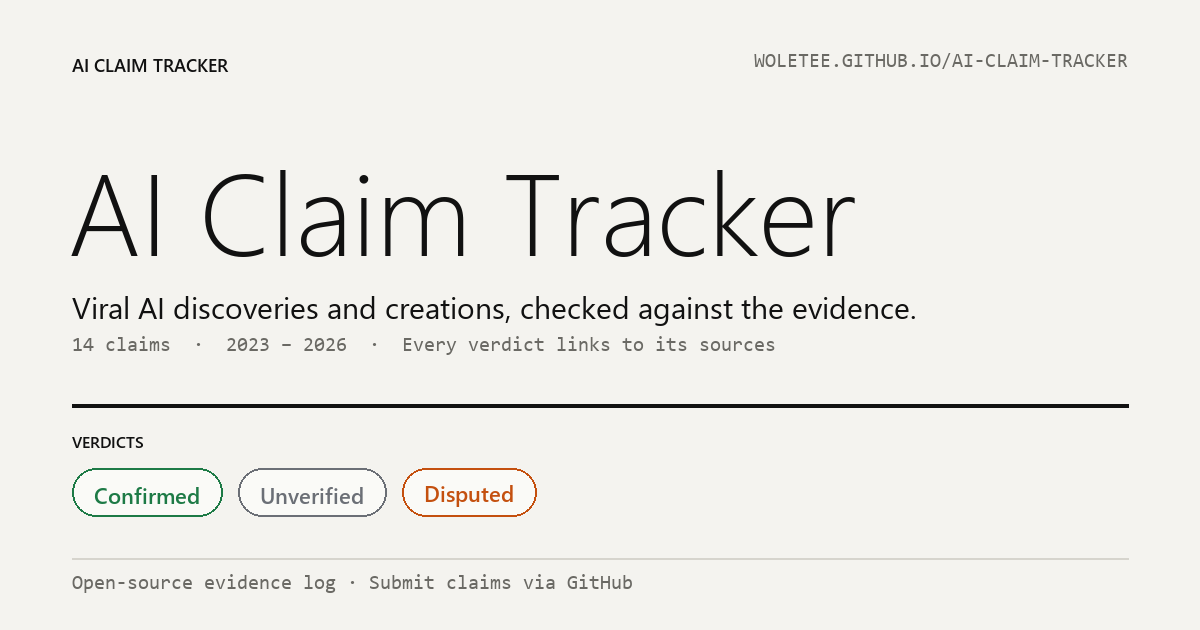
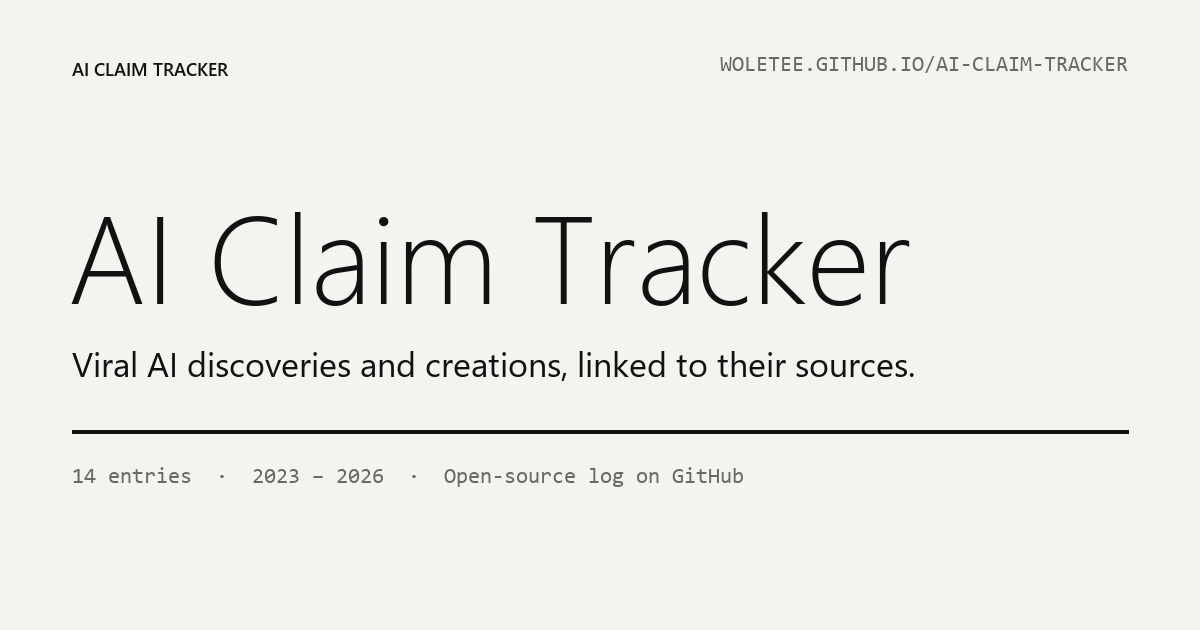
Remove Verdict bar and Confirmed/Unverified/Disputed labels from site

diff --git a/index.html b/index.html
@@ -4,31 +4,30 @@
 <meta charset="utf-8">
 <meta name="viewport" content="width=device-width, initial-scale=1, viewport-fit=cover">
 <title>AI Claim Tracker</title>
-<meta name="description" content="Viral AI discoveries and creations, checked against the evidence. Every verdict links to its sources.">
+<meta name="description" content="Viral AI discoveries and creations, linked to their sources.">
 <link rel="canonical" href="https://woletee.github.io/ai-claim-tracker/">
 <link rel="icon" href="favicon.svg" type="image/svg+xml">
 <link rel="icon" href="favicon.ico" sizes="32x32">
 <meta property="og:type" content="website">
 <meta property="og:site_name" content="AI Claim Tracker">
 <meta property="og:title" content="AI Claim Tracker">
-<meta property="og:description" content="Viral AI discoveries and creations, checked against the evidence. Every verdict links to its sources.">
+<meta property="og:description" content="Viral AI discoveries and creations, linked to their sources.">
 <meta property="og:url" content="https://woletee.github.io/ai-claim-tracker/">
 <meta property="og:image" content="https://woletee.github.io/ai-claim-tracker/og-image.png">
 <meta property="og:image:width" content="1200">
 <meta property="og:image:height" content="630">
-<meta property="og:image:alt" content="AI Claim Tracker — Viral AI discoveries and creations, checked against the evidence.">
+<meta property="og:image:alt" content="AI Claim Tracker — Viral AI discoveries and creations, linked to their sources.">
 <meta name="twitter:card" content="summary_large_image">
 <meta name="twitter:title" content="AI Claim Tracker">
-<meta name="twitter:description" content="Viral AI discoveries and creations, checked against the evidence. Every verdict links to its sources.">
+<meta name="twitter:description" content="Viral AI discoveries and creations, linked to their sources.">
 <meta name="twitter:image" content="https://woletee.github.io/ai-claim-tracker/og-image.png">
 <link rel="preconnect" href="https://fonts.googleapis.com">
 <link rel="stylesheet" href="https://fonts.googleapis.com/css2?family=Raleway:wght@200;300;400;500;600;700&family=JetBrains+Mono:wght@400;500&display=swap">
 <style>
-/* Layout: same system as Fast, With AI. Thin masthead, pill filter row, ruled 3-column grid; each cell is one claim: image, verdict, claim. */
+/* Layout: same system as Fast, With AI. Thin masthead and ruled 3-column grid; each cell is one AI discovery or creation. */
 :root{
   --bg:#f4f3ef; --paper:#fafaf7; --fg:#111; --muted:#6a6964; --rule:#d6d4cd; --line:#111;
   --pill:#111; --pill-fg:#f4f3ef;
-  --ok:#1d7a46; --unv:#6b6f76; --disp:#c4500f;
   --display:"Raleway","Century Gothic","Avenir Next",sans-serif;
   --body:"Raleway","Avenir Next",system-ui,-apple-system,"Segoe UI",sans-serif;
   --mono:"JetBrains Mono",ui-monospace,Consolas,monospace;
@@ -36,12 +35,10 @@
 }
 @media (prefers-color-scheme: dark){:root:not([data-theme="light"]){
   --bg:#111; --paper:#161616; --fg:#f0efea; --muted:#9a9993; --rule:#2c2b29; --line:#f0efea;
-  --pill:#f0efea; --pill-fg:#111;
-  --ok:#5cc98a; --unv:#a4a9b1; --disp:#f08a4b; color-scheme:dark}}
+  --pill:#f0efea; --pill-fg:#111; color-scheme:dark}}
 :root[data-theme="dark"]{
   --bg:#111; --paper:#161616; --fg:#f0efea; --muted:#9a9993; --rule:#2c2b29; --line:#f0efea;
-  --pill:#f0efea; --pill-fg:#111;
-  --ok:#5cc98a; --unv:#a4a9b1; --disp:#f08a4b; color-scheme:dark}
+  --pill:#f0efea; --pill-fg:#111; color-scheme:dark}
 
 *{box-sizing:border-box}
 html{padding-top:env(safe-area-inset-top,0px);padding-bottom:env(safe-area-inset-bottom,0px)}
@@ -63,15 +60,9 @@ h1{font-family:var(--display);font-weight:200;letter-spacing:-.04em;font-size:mi
 .dek .stats{font-family:var(--mono);font-size:12px;color:var(--muted)}
 .suggest{font-size:12px;font-weight:600;letter-spacing:.06em;text-transform:uppercase;text-decoration:none;border:1px solid var(--line);border-radius:999px;padding:6px 14px}
 .suggest:hover{background:var(--pill);color:var(--pill-fg)}
+.card summary:focus-visible,.suggest:focus-visible,.more a:focus-visible{outline:2px solid var(--fg);outline-offset:2px}
 
-.bar{display:flex;justify-content:space-between;align-items:center;gap:10px 24px;flex-wrap:wrap;padding-block:10px;border-top:2px solid var(--line)}
-.bar .label{font-size:11px;letter-spacing:.14em;text-transform:uppercase;font-weight:700}
-.pills{display:flex;flex-wrap:wrap;gap:6px}
-.pills button{font:600 12px var(--body);color:var(--fg);background:transparent;border:1px solid var(--line);border-radius:999px;padding:4px 12px;cursor:pointer}
-.pills button[aria-pressed="true"]{background:var(--pill);color:var(--pill-fg)}
-.pills button:focus-visible,.card summary:focus-visible,.suggest:focus-visible,.more a:focus-visible{outline:2px solid var(--fg);outline-offset:2px}
-
-.grid{display:grid;grid-template-columns:repeat(3,minmax(0,1fr));align-items:start;border-top:1px solid var(--line);border-left:1px solid var(--rule)}
+.grid{display:grid;grid-template-columns:repeat(3,minmax(0,1fr));align-items:start;border-top:2px solid var(--line);border-left:1px solid var(--rule)}
 .card{border-right:1px solid var(--rule);border-bottom:1px solid var(--rule);padding:16px;display:flex;flex-direction:column;gap:12px;min-width:0;background:var(--paper)}
 .card.targeted{outline:2px solid var(--line);outline-offset:-2px}
 .card .row{display:flex;justify-content:space-between;align-items:center;gap:8px;font-size:12px}
@@ -80,9 +71,8 @@ h1{font-family:var(--display);font-weight:200;letter-spacing:-.04em;font-size:mi
 .art{aspect-ratio:1200/630;width:100%;overflow:hidden;background:var(--rule)}
 .art img{width:100%;height:100%;display:block;object-fit:cover}
 .art img.contain{object-fit:contain;background:#fff}
-.verdict-word{display:block;font-family:var(--display);font-weight:300;font-size:36px;letter-spacing:-.03em;line-height:1;color:var(--c)}
-.card h2{font-size:17px;line-height:1.3;margin:0;font-weight:600;text-wrap:balance}
-.card .short{margin:0;font-size:13px;color:var(--muted);margin-top:-6px}
+.card h2{font-size:18px;line-height:1.3;margin:0;font-weight:600;text-wrap:balance}
+.card .short{margin:0;font-size:13.5px;color:var(--muted);margin-top:-4px}
 .card details{border-top:1px solid var(--rule);padding-top:10px}
 .card summary{cursor:pointer;list-style:none;font-size:11px;font-weight:700;letter-spacing:.12em;text-transform:uppercase;display:flex;justify-content:space-between;gap:8px}
 .card summary::-webkit-details-marker{display:none}
@@ -109,48 +99,35 @@ h1{font-family:var(--display);font-weight:200;letter-spacing:-.04em;font-size:mi
 
   <h1>AI Claim Tracker</h1>
   <div class="dek">
-    <p>Viral AI discoveries and creations, checked against the evidence.</p>
-    <div class="dek-right"><div class="stats" id="stats"></div><a class="suggest" href="https://github.com/woletee/ai-claim-tracker/issues/new?template=new-claim.yml" target="_blank" rel="noopener">+ Submit a claim</a></div>
+    <p>Viral AI discoveries and creations, linked to their sources.</p>
+    <div class="dek-right"><div class="stats" id="stats"></div><a class="suggest" href="https://github.com/woletee/ai-claim-tracker/issues/new?template=new-claim.yml" target="_blank" rel="noopener">+ Submit an entry</a></div>
   </div>
 
-  <div class="bar">
-    <span class="label">Verdict</span>
-    <div class="pills" id="pills" role="group" aria-label="Filter by verdict"></div>
-  </div>
   <div class="grid" id="grid"></div>
 
   <footer class="fine">
-    <span>Every verdict links to its sources. Checked 27 Nov 2026.</span>
+    <span>Every entry links to its sources. Updated 28 Nov 2026.</span>
     <span>Images: each source's own, credited per card.</span>
   </footer>
 </div>
 
 <script>
-const STATUS={
-  "confirmed":{label:"Confirmed",c:"--ok",def:"Independent evidence supports it."},
-  "unverified":{label:"Unverified",c:"--unv",def:"Only the creator's own numbers so far."},
-  "disputed":{label:"Disputed",c:"--disp",def:"Credible experts challenge it."}
-};
-const ORDER=Object.keys(STATUS);
 const MON=["Jan","Feb","Mar","Apr","May","Jun","Jul","Aug","Sep","Oct","Nov","Dec"];
 const fmt=d=>{const [y,m]=d.split("-");return `${MON[+m-1]} ${y}`;};
 const esc=s=>String(s??"").replace(/[&<>"]/g,c=>({"&":"&amp;","<":"&lt;",">":"&gt;",'"':"&quot;"}[c]));
-let C=[], current="all";
-const grid=document.getElementById("grid"), pills=document.getElementById("pills");
+let C=[];
+const grid=document.getElementById("grid");
 
 function card(x){
-  const st=STATUS[x.status]||STATUS.unverified;
   const img=x.image?`<img src="${esc(x.image)}" alt="Image for: ${esc(x.claim)}" class="${x.imageFit==="contain"?"contain":""}" loading="lazy" onerror="this.remove()">`:"";
-  return `<article class="card" id="${esc(x.id)}" style="--c:var(${st.c})">
+  return `<article class="card" id="${esc(x.id)}">
     <div class="row"><span class="date">${fmt(x.date)}</span><span class="tag">${esc(x.who)}</span></div>
     <div class="art">${img}</div>
-    <span class="verdict-word">${st.label}</span>
     <h2>“${esc(x.claim)}”</h2>
     <p class="short">${esc(x.verdict)}</p>
     <details><summary aria-expanded="false"><span class="t-open">Read more</span><span class="t-close">Read less</span></summary>
       <div class="more">
-        <span class="k">Verdict</span><span>${st.label}: ${st.def}</span>
-        <span class="k">Found</span><span>${esc(x.detail)}</span>
+        <span class="k">Details</span><span>${esc(x.detail)}</span>
         <span class="k">Source</span><span>${(x.sources||[]).map(s=>`<a href="${esc(s.url)}" target="_blank" rel="noopener">${esc(s.label)}</a>`).join(" · ")}</span>
         ${x.image?`<span class="k">Image</span><span><a href="${esc(x.imagePage)}" target="_blank" rel="noopener">${esc(x.imageCredit)}</a></span>`:""}
         <span class="k">Link</span><span><a class="permalink" href="#${esc(x.id)}" data-id="${esc(x.id)}">Copy link</a></span>
@@ -159,10 +136,9 @@ function card(x){
 }
 function syncUrl(hashId){
   const u=new URL(location.href);
-  if(current==="all") u.searchParams.delete("verdict");
-  else u.searchParams.set("verdict",current);
+  u.search="";
   u.hash=hashId?`#${hashId}`:"";
-  history.replaceState(null,"",u.pathname+u.search+u.hash);
+  history.replaceState(null,"",u.pathname+u.hash);
 }
 function wireCards(){
   grid.querySelectorAll(".card").forEach(el=>{
@@ -195,47 +171,30 @@ function wireCards(){
   });
 }
 function render(){
-  grid.innerHTML=C.filter(x=>current==="all"||x.status===current).sort((a,b)=>b.date.localeCompare(a.date)).map(card).join("");
-  pills.querySelectorAll("button").forEach(b=>b.setAttribute("aria-pressed",b.dataset.s===current?"true":"false"));
+  grid.innerHTML=C.slice().sort((a,b)=>b.date.localeCompare(a.date)).map(card).join("");
   wireCards();
 }
-function applyUrlState(scroll){
-  const params=new URLSearchParams(location.search);
-  const v=params.get("verdict");
-  current=(v&&STATUS[v])?v:"all";
+function applyHash(scroll){
   const hashId=location.hash.replace(/^#/,"");
-  const targetClaim=hashId?C.find(x=>x.id===hashId):null;
-  if(targetClaim&&current!=="all"&&targetClaim.status!==current) current="all";
-  render();
-  if(targetClaim){
-    const el=document.getElementById(targetClaim.id);
-    if(el){
-      const d=el.querySelector("details");
-      if(d) d.open=true;
-      el.classList.add("targeted");
-      if(scroll) el.scrollIntoView({behavior:"smooth",block:"center"});
-    }
+  grid.querySelectorAll(".card.targeted").forEach(el=>el.classList.remove("targeted"));
+  if(!hashId) return;
+  const el=document.getElementById(hashId);
+  if(el){
+    const d=el.querySelector("details");
+    if(d) d.open=true;
+    el.classList.add("targeted");
+    if(scroll) el.scrollIntoView({behavior:"smooth",block:"center"});
   }
 }
 function setup(){
   const years=C.map(x=>+x.date.slice(0,4));
-  document.getElementById("stats").textContent=`${C.length} claims · ${Math.min(...years)} – ${Math.max(...years)}`;
-  const used=ORDER.filter(s=>C.some(x=>x.status===s));
-  pills.innerHTML=`<button id="f-all" data-s="all" aria-pressed="true">All</button>`+
-    used.map(s=>`<button id="f-${s}" data-s="${s}" title="${STATUS[s].def}" aria-pressed="false">${STATUS[s].label}</button>`).join("");
-  pills.querySelectorAll("button").forEach(b=>b.addEventListener("click",()=>{
-    current=b.dataset.s;
-    const hashId=location.hash.replace(/^#/,"");
-    const keepHash=hashId&&C.some(x=>x.id===hashId&&(current==="all"||x.status===current));
-    render();
-    syncUrl(keepHash?hashId:"");
-  }));
-  window.addEventListener("hashchange",()=>applyUrlState(true));
-  window.addEventListener("popstate",()=>applyUrlState(false));
-  applyUrlState(true);
+  document.getElementById("stats").textContent=`${C.length} entries · ${Math.min(...years)} – ${Math.max(...years)}`;
+  render();
+  window.addEventListener("hashchange",()=>applyHash(true));
+  applyHash(true);
 }
 fetch("data/claims.json",{cache:"no-cache"}).then(r=>r.json()).then(d=>{C=d;setup();})
-  .catch(()=>{grid.innerHTML='<p style="padding:16px">Could not load the claims. Refresh to try again.</p>';});
+  .catch(()=>{grid.innerHTML='<p style="padding:16px">Could not load the entries. Refresh to try again.</p>';});
 </script>
 </body>
 </html>

diff --git a/scripts/claim_bot.py b/scripts/claim_bot.py
@@ -23,13 +23,13 @@ DATA = ROOT / "data" / "claims.json"
 IMG = ROOT / "img"
 UA = "Mozilla/5.0 (Windows NT 10.0; Win64; x64) AppleWebKit/537.36 (KHTML, like Gecko) Chrome/124.0 Safari/537.36"
 FIELDS = {
-    "The claim": "claim", "Who made it": "who", "When (year and month)": "date",
-    "Link to the claim": "claim_url", "What the evidence shows": "verdict",
-    "Evidence link": "evidence_url", "Second evidence link (optional)": "evidence2_url",
-    "Suggested verdict": "suggested",
+    "The claim": "claim", "What was built or discovered": "claim",
+    "Who made it": "who", "When (year and month)": "date",
+    "Link to the claim": "claim_url", "Link to the announcement or post": "claim_url",
+    "What the evidence shows": "verdict", "Short summary": "verdict",
+    "Evidence link": "evidence_url", "Source link": "evidence_url",
+    "Second evidence link (optional)": "evidence2_url", "Second source link (optional)": "evidence2_url",
 }
-SUGGESTED = {"Confirmed": "confirmed", "Unverified": "unverified", "Disputed": "disputed"}
-LABEL_STATUS = {"confirmed": "confirmed", "unverified": "unverified", "disputed": "disputed"}
 LIMITS = {"claim": 90, "who": 60, "verdict": 140}
 REQUIRED = ["claim", "who", "date", "claim_url", "verdict", "evidence_url"]
 
@@ -133,8 +133,7 @@ def check(event):
     if problems:
         lines += ["Please edit the issue to fix these:", *[f"- {p}" for p in problems], ""]
     else:
-        lines += ["The form looks complete. A maintainer will read the evidence, add a verdict label "
-                  "(`confirmed`, `unverified`, or `disputed`) and `approved`. "
+        lines += ["The form looks complete. A maintainer will review the sources and add `approved`. "
                   "The site updates automatically after that.", ""]
     if reach:
         lines += ["Link check:", *reach]
@@ -146,20 +145,16 @@ def add(event):
     issue = event["issue"]
     e = parse(issue.get("body", ""))
     problems = validate(e)
-    labels = {l["name"] for l in issue.get("labels", [])}
-    status = next((LABEL_STATUS[l] for l in LABEL_STATUS if l in labels), None)
-    if not status:
-        problems.append("add a verdict label (`confirmed`, `unverified`, or `disputed`) before `approved`")
     if problems:
-        write_comment("Could not add this claim:\n" + "\n".join(f"- {p}" for p in problems))
+        write_comment("Could not add this entry:\n" + "\n".join(f"- {p}" for p in problems))
         return 1
     claims = json.loads(DATA.read_text(encoding="utf-8"))
     cid = f"i{issue['number']}"
     if any(x.get("id") == cid for x in claims):
-        write_comment("This claim is already on the site.")
+        write_comment("This entry is already on the site.")
         return 0
     entry = {
-        "id": cid, "date": e["date"], "claim": e["claim"].strip("\"“”"), "who": e["who"], "status": status,
+        "id": cid, "date": e["date"], "claim": e["claim"].strip("\"“”"), "who": e["who"],
         "verdict": e["verdict"], "detail": e["verdict"],
         "sources": [{"label": host(e[k]), "url": e[k]} for k in ("claim_url", "evidence_url", "evidence2_url") if e.get(k)],
         "issue": issue["html_url"],

diff --git a/README.md b/README.md
@@ -1,22 +1,14 @@
 # AI Claim Tracker
 
-Viral AI discoveries and creations, checked against the evidence. Every verdict links to its sources.
+Viral AI discoveries and creations, linked to their sources.
 
 Sister site to [Fast, With AI](https://woletee.github.io/fast-with-ai/).
 
-## Verdicts
+## Submitting an entry
 
-| Verdict | Meaning |
-|---|---|
-| Confirmed | Independent evidence supports it. |
-| Unverified | Only the creator's own numbers so far. |
-| Disputed | Credible experts challenge it. |
-
-## Submitting a claim
-
-1. Anyone opens **[Submit a claim](https://github.com/woletee/ai-claim-tracker/issues/new?template=new-claim.yml)** and fills in the short form (about 3 minutes).
+1. Anyone opens **[Submit an entry](https://github.com/woletee/ai-claim-tracker/issues/new?template=new-claim.yml)** and fills in the short form (about 3 minutes).
 2. A bot checks the form and the links, then comments on the issue.
-3. A maintainer reads the evidence, adds a verdict label (`confirmed`, `unverified`, or `disputed`), then adds `approved`.
-4. The bot adds the claim to `data/claims.json`, saves the source's preview image as the card image, credits it, and closes the issue. The site updates in a minute or two.
+3. A maintainer reviews the sources and adds the `approved` label.
+4. The bot adds the entry to `data/claims.json`, saves the source's preview image as the card image, credits it, and closes the issue. The site updates in a minute or two.
 
 Card images are each source's own preview image and belong to their owners.
